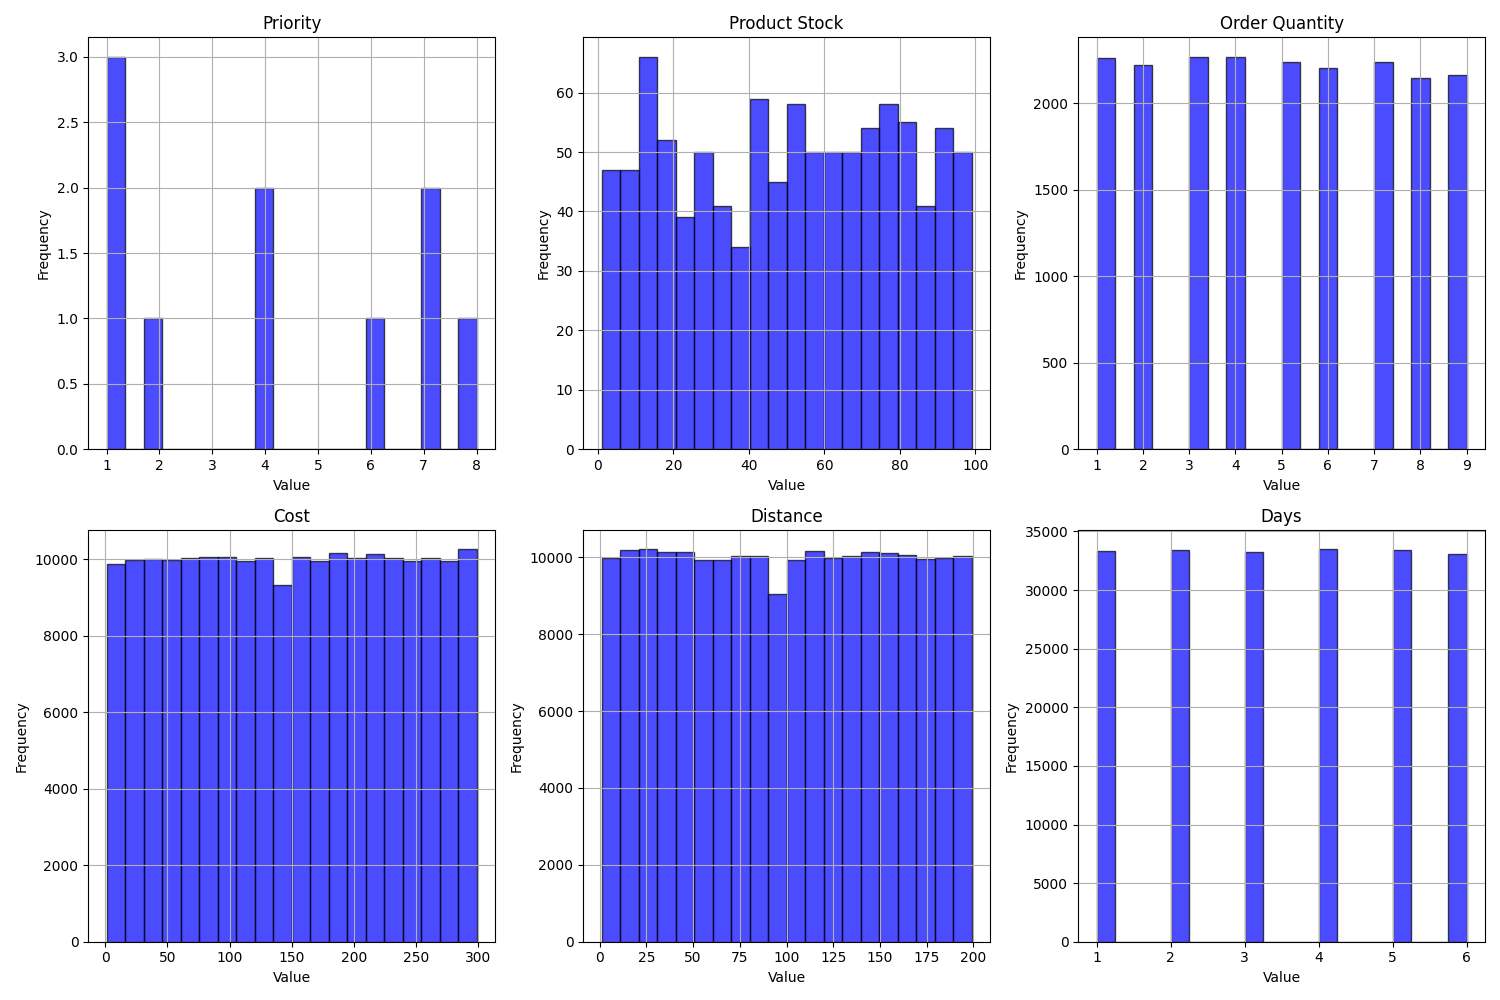
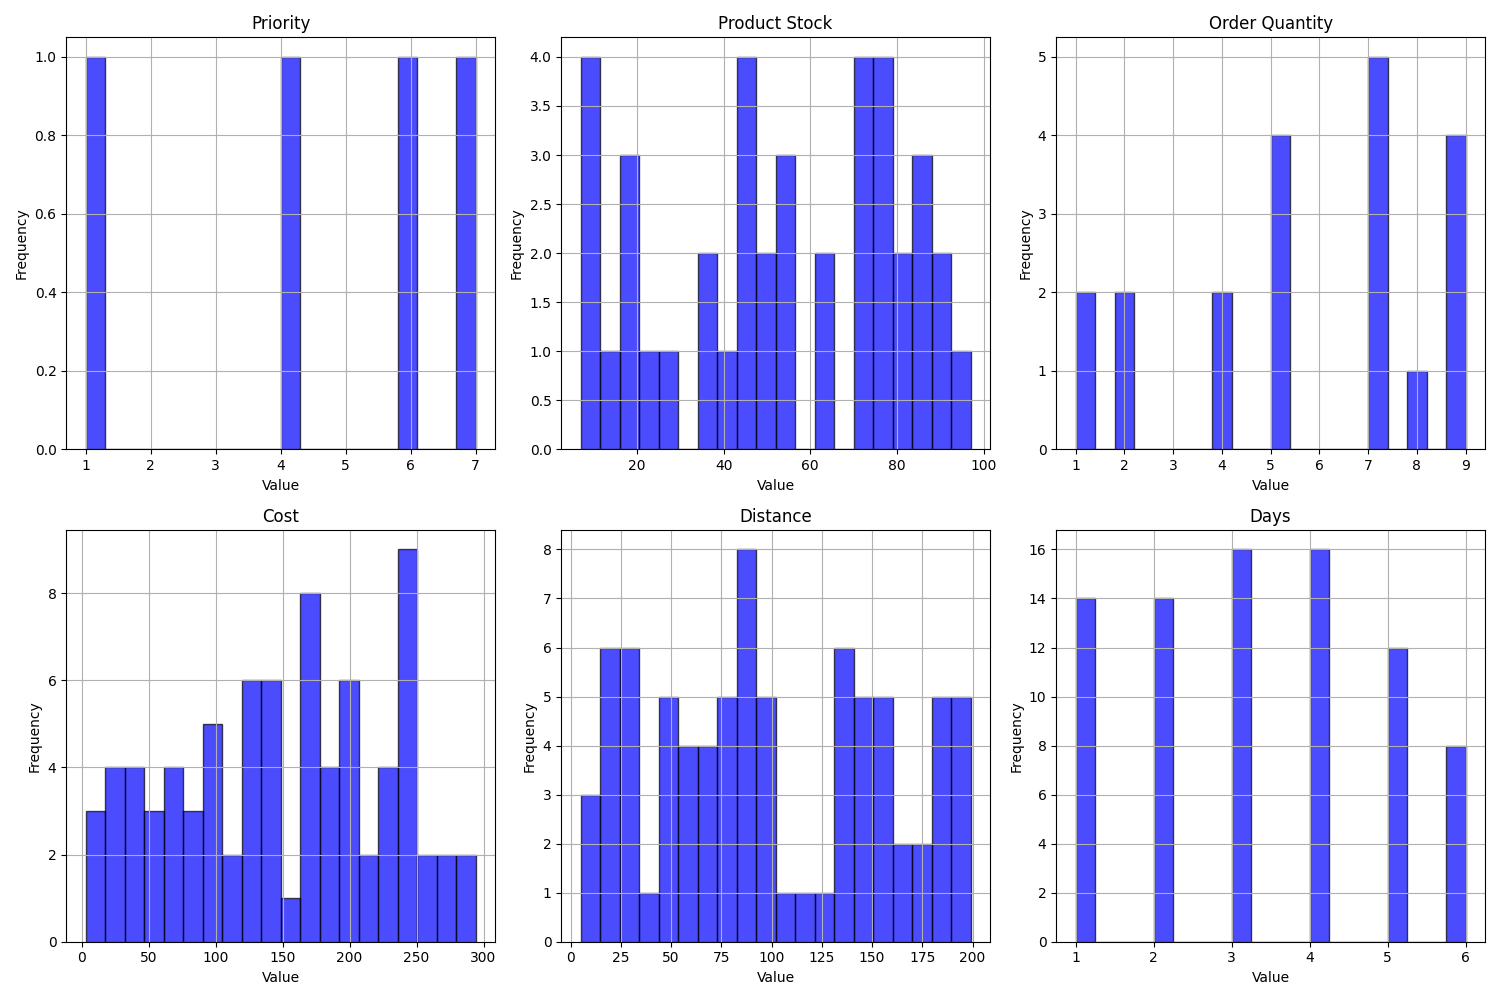
commit

diff --git a/Generate_Data.py b/Generate_Data.py
@@ -84,7 +84,7 @@ def generate_intelligent_sourcing_excel(
     with pd.ExcelWriter(output_filename, engine='xlsxwriter') as writer:
         weightage_df.to_excel(writer, sheet_name='Weightage', index=False)
         priority_df.to_excel(writer, sheet_name='Priority Data', index=False)
-        warehouse_df.to_excel(writer, sheet_name='Stock Data', index=False)
+        warehouse_df.to_excel(writer, sheet_name='Warehouse Data', index=False)
         order_df.to_excel(writer, sheet_name='Order Data', index=False)
         cost_df.to_excel(writer, sheet_name='Cost Data', index=False)
         distance_df.to_excel(writer, sheet_name='Distance Data', index=False)
@@ -102,7 +102,7 @@ def plot_histograms(excel_filename):
     
     data_sheets = {
         "Priority": pd.read_excel(xls, "Priority Data")["Priority"],
-        "Product Stock": pd.read_excel(xls, "Stock Data").iloc[:, 1:].values.flatten(),
+        "Product Stock": pd.read_excel(xls, "Warehouse Data").iloc[:, 1:].values.flatten(),
         "Order Quantity": pd.read_excel(xls, "Order Data").iloc[:, 1:].values.flatten(),
         "Cost": pd.read_excel(xls, "Cost Data")["Cost"],
         "Distance": pd.read_excel(xls, "Distance Data")["Distance"],
@@ -128,9 +128,9 @@ def plot_histograms(excel_filename):
 if __name__ == "__main__":
     # Define parameters for execution
     output_filename = "Intelligent_Sourcing.xlsx"
-    num_of_warehouses = 10
-    num_of_products = 100
-    num_of_orders = 200
+    num_of_warehouses = 4
+    num_of_products = 10
+    num_of_orders = 2
     weightage_Cost = 1
     weightage_Priority = 0.8
     weightage_distance = 0.6

diff --git a/Read_Data.py b/Read_Data.py
@@ -1,0 +1,21 @@
+from pulp import *
+import pandas as pd
+import numpy as np
+import xlsxwriter
+
+filepath = 'Intelligent_Sourcing.xlsx'
+
+#print(excel_file.sheet_names)
+sheets = ['Weightage', 'Priority Data', 'Warehouse Data', 'Order Data', 'Cost Data', 'Distance Data', 'Days Data']
+
+weightage_df = pd.read_excel(filepath, sheet_name='Weightage')
+weightage_dict = dict(zip(weightage_df['Variable'], weightage_df['Weightage']))
+Weightage_Cost = weightage_dict["Cost"]
+Weightage_Priority = weightage_dict["Priority"]
+Weightage_distance = weightage_dict["Distance"]
+Weightage_days = weightage_dict["Days"]
+
+priority_df = pd.read_excel(filepath, sheet_name='Priority Data')
+warehouse_df = pd.read_excel(filepath, sheet_name='Warehouse Data')
+
+print(warehouse_df)
